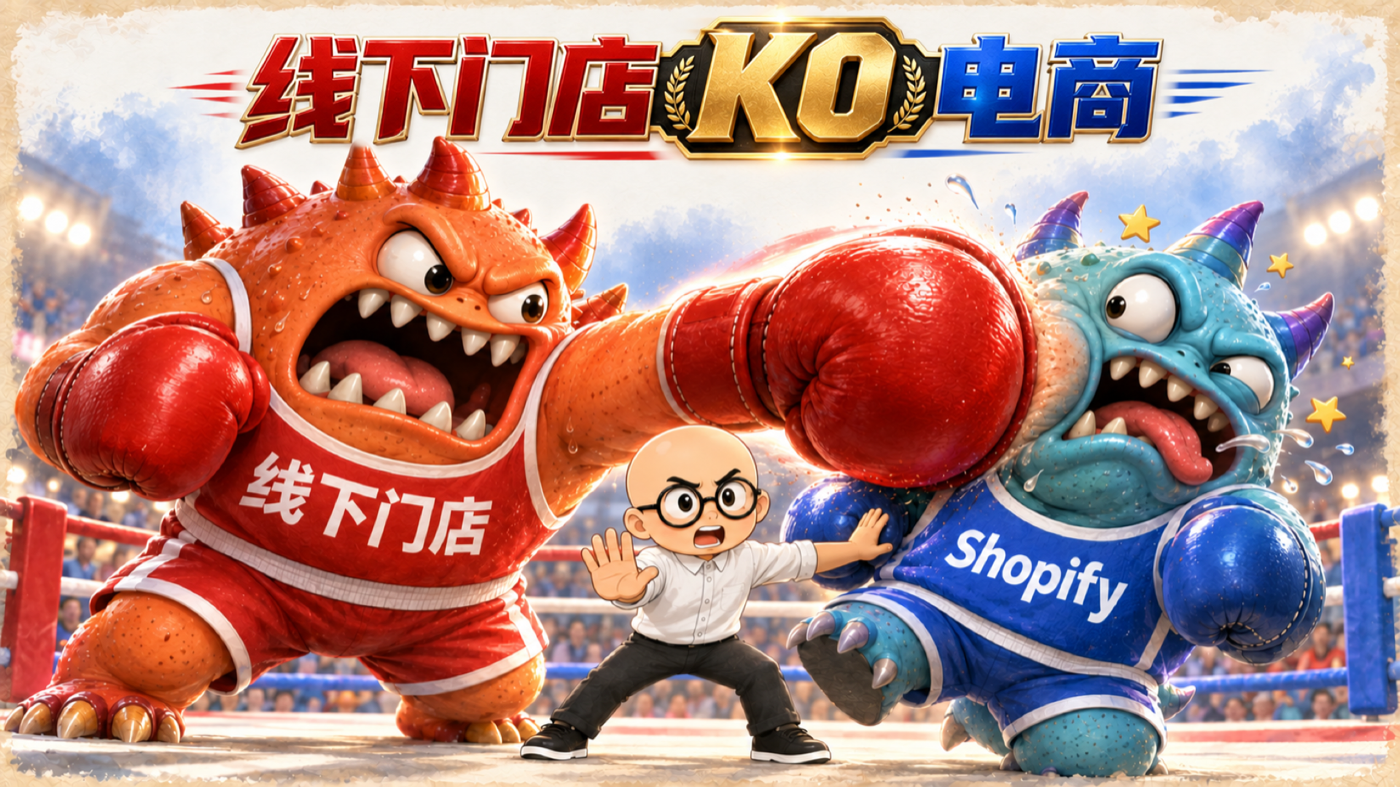
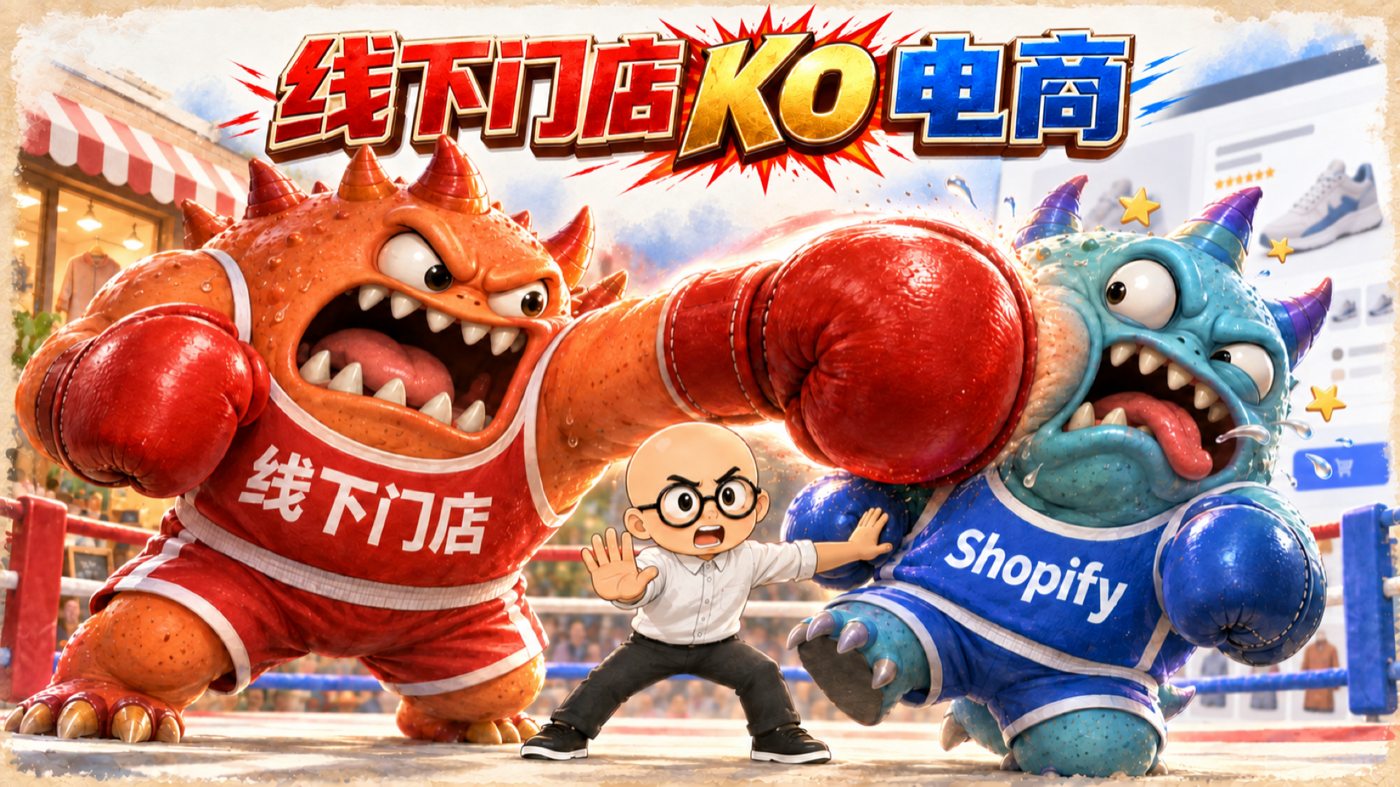
Add context-aware business backgrounds

diff --git a/references/background-selection.md b/references/background-selection.md
@@ -1,0 +1,34 @@
+# 业务背景选择
+
+在生成四张无字稿前，先根据主题选择能解释业务语境的背景。背景应提供信息，不应只是烟雾、观众席或抽象色块。
+
+## 场景映射
+
+| 主题 | 优先背景 |
+|---|---|
+| Meta / Facebook 广告 | Meta Ads Manager 后台、广告组界面、信息流或素材预览 |
+| Google Ads | Google Ads 后台、搜索广告结果页、关键词或购物广告界面 |
+| Shopify / 独立站 / 电商 | 商品详情页、商品列表页、购物车、结账页或电商数据面板 |
+| 线下门店 / 本地品牌 | 实体店门头、橱窗、货架、收银台或店内陈列 |
+| B2B 询盘 | CRM、询盘列表、聊天窗口、表单后台或采购订单 |
+| 两个平台或渠道对比 | 左右分区，每一侧使用与该阵营对应的后台或真实业务场景 |
+
+主题没有明确平台时，选择与核心动作最相关的业务页面或真实场所，不强行加入 Meta 或 Google 后台。
+
+## 构图规则
+
+- 把业务背景放在对应角色或阵营后方，空间关系必须一眼可懂。
+- 背景应足够大，缩略后仍能识别是后台、产品页或实体店；同时降低对比度、轻微虚化，不能抢过主体。
+- 页面只需保留典型结构，例如侧栏、折线图、产品主图、价格区和购买按钮。除用户明确要求外，不生成可读的小段落、虚假数据或多余文案。
+- 对比主题优先采用左右分区。例如“线下门店 vs Shopify”：门店角色后方是实体店，Shopify 角色后方是商品详情页。
+- 标题区域保持干净。不要让浏览器窗口、门头或后台面板侵入标题安全区。
+- 四张小样可以改变后台角度、大小和景深，但每张都必须使用语义正确的背景。
+
+## 参考图
+
+- `../assets/meta-dashboard-background-reference.png`：单一 Meta 后台作为大背景。
+- `../assets/paper-watercolor-layout-reference.png`：Meta 后台与人物融合在纸张水彩边缘中的方式。
+- `../assets/3d-monster-material-reference.png`：Meta 与 Google 后台分别对应不同阵营时的分区方式。
+- `../assets/selected-cover-no-text-reference.png`：实体店与电商商品页分别放在左右阵营后的最终效果。
+
+这些图只提供背景选择、占比和层级参考，不复制其中的主题、人物或文字。

diff --git a/references/visual-style.md b/references/visual-style.md
@@ -34,15 +34,17 @@
 
 以 `../assets/selected-cover-no-text-reference.png` 为成熟构图参考：主体大、动作关系一眼可懂、前后层次清楚、缩小后仍能识别表情与关键道具。
 
+业务背景必须与主题对应。具体选择规则见 [background-selection.md](background-selection.md)。不要用无意义的烟雾或观众席替代能解释主题的平台后台、产品页或实体场景。
+
 ## AI 标题
 
-以 `../assets/ai-title-treatment-reference.png` 为质量参考，不复制其具体文字。标题应由 AI 根据主题设计：
+以 `../assets/ai-title-treatment-reference.png` 为默认质量参考，不复制其具体文字。当前偏好的方向是漫画重拳标题：红蓝阵营分色，重点词使用亮金色并放大，重点词背后允许克制的红色爆裂冲击形。标题应由 AI 根据主题设计：
 
 - 文字逐字准确
 - 字形不是默认系统字体效果
 - 配色与画面阵营或品牌形成逻辑
 - 有克制的立体材质、边缘高光和投影
-- 重点词可以放大或做徽章、铭牌、冲击中心
+- 重点词可以放大并成为冲击中心；除非用户要求，不使用冠军腰带、月桂或黑色铭牌
 - 不遮挡人物眼睛和关键动作
 
 如果 AI 文字拼写错误，保持底图不变，仅重新生成标题区域，直到准确。

diff --git a/README.md b/README.md
@@ -8,7 +8,9 @@
 4. 输出选中稿的高清无字版。
 5. 使用同一底图制作 AI 设计标题版。
 
-仓库内包含老吴 Q 版人物、3D 怪兽材质、纸张水彩背景和冠军赛标题字效参考图。
+仓库内包含老吴 Q 版人物、3D 怪兽材质、纸张水彩背景和漫画重拳标题字效参考图。
+
+封面背景会根据主题自动选择：Meta 话题使用 Meta 后台，Google 话题使用 Google 后台或搜索页，电商话题使用商品页，线下业务使用实体店；对比主题会把不同背景放在各自阵营后方。
 
 ## 安装
 
